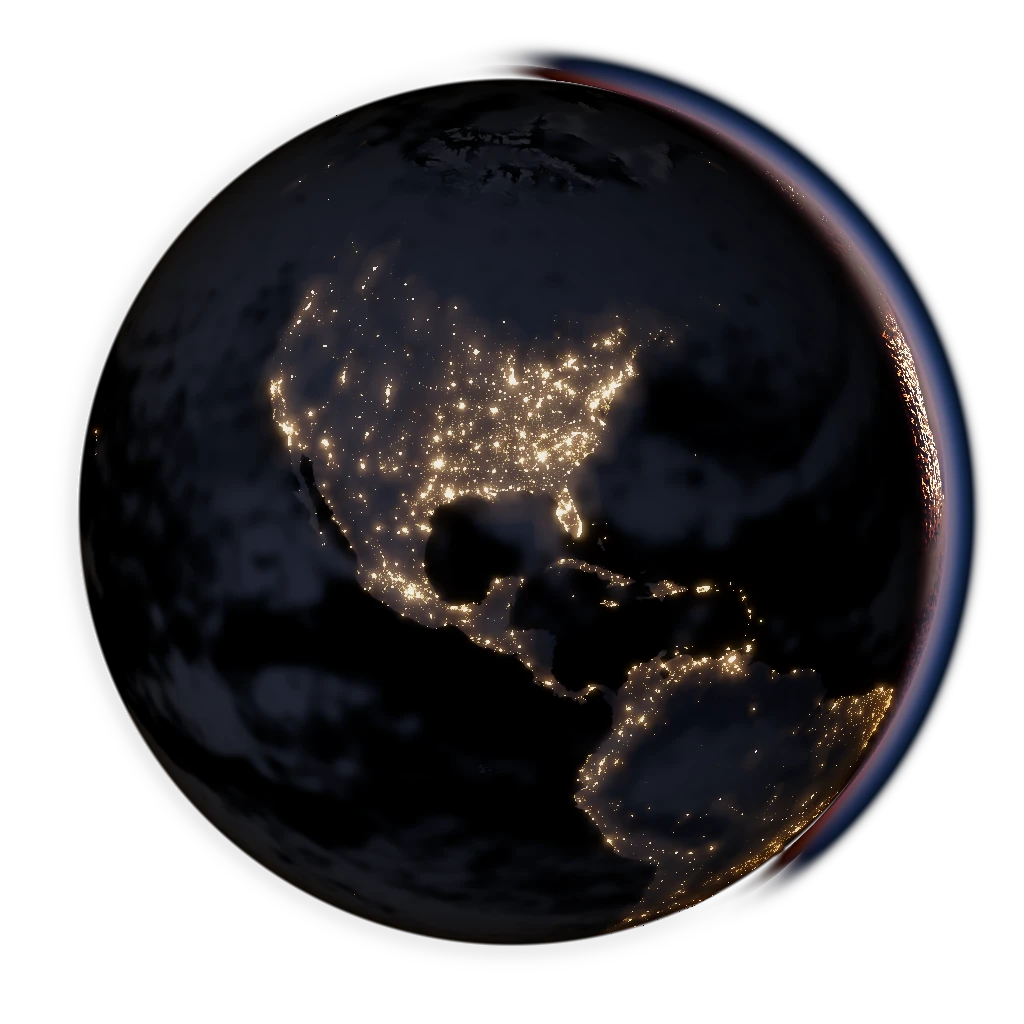
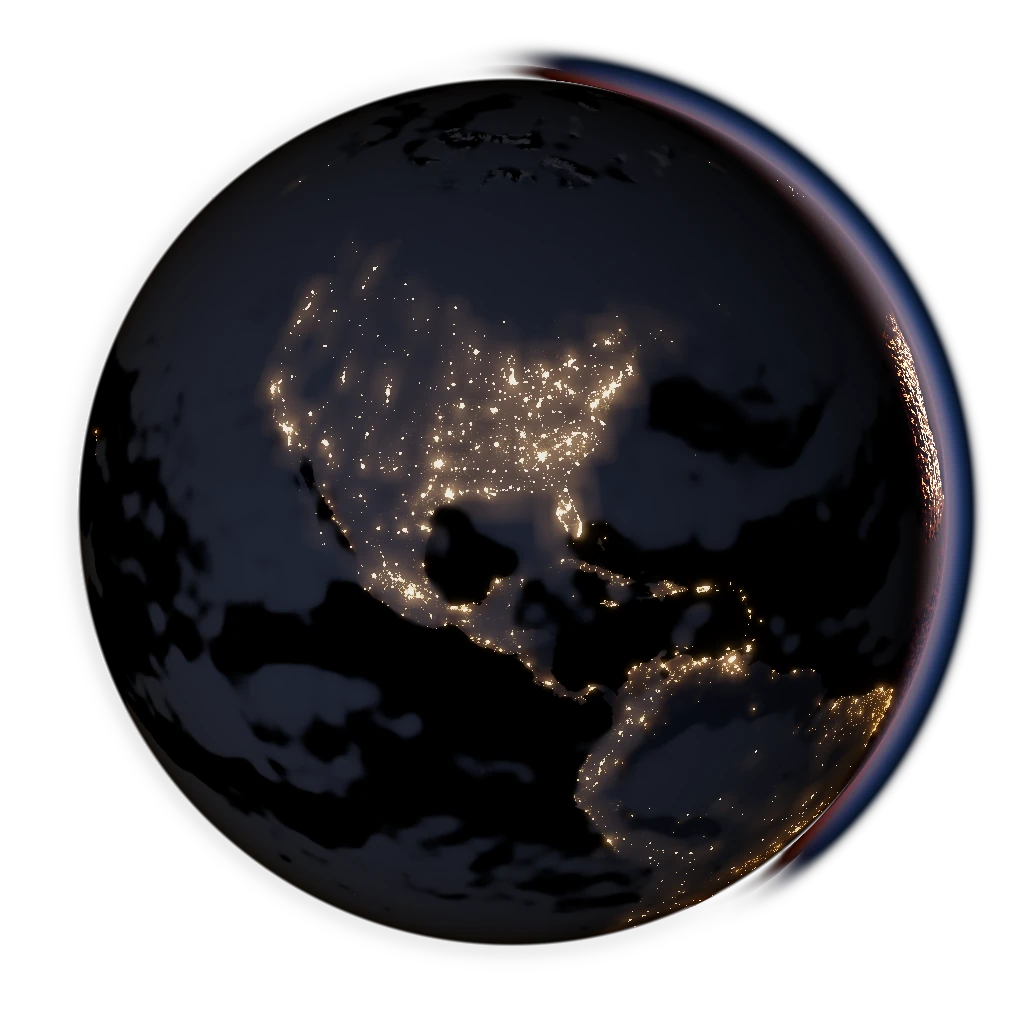
Shade cloud tops and terrain from sampled Earth heights

diff --git a/src/earth/surface.ts b/src/earth/surface.ts
@@ -1,4 +1,5 @@
 import type { EarthAtmosphere } from './atmosphere'
+import { bumpGLSL } from './bump'
 import { oceanGLSL } from './ocean'
 import { Geodetic } from '@takram/three-geospatial'
 import { nightLightingGLSL } from './night-lighting'
@@ -29,7 +30,7 @@ export function createSurface(atmosphere: EarthAtmosphere) {
     uniforms: {
       ...Object.fromEntries([...atmosphere.uniforms].filter(([key]) =>
         key === 'ATMOSPHERE' || key.endsWith('_texture') || key.endsWith('_TO_LUMINANCE'))),
-      day: { value: null }, night: { value: null }, relief: { value: null },
+      day: { value: null }, night: { value: null }, elevation: { value: null },
       dayCube: { value: null }, cubeMix: { value: 0 },
       bathymetry: { value: null }, waterNormal: { value: null }, oceanSeconds: { value: 0 },
       sunDirection: { value: new Vector3() }
@@ -41,7 +42,7 @@ export function createSurface(atmosphere: EarthAtmosphere) {
         gl_Position = projectionMatrix * modelViewMatrix * vec4(position, 1.0);
       }`,
     fragmentShader: `
-      uniform sampler2D day, night, relief;
+      uniform sampler2D day, night, elevation;
       uniform samplerCube dayCube;
       uniform float cubeMix;
       uniform vec3 sunDirection;
@@ -49,6 +50,7 @@ export function createSurface(atmosphere: EarthAtmosphere) {
       ${cityTwilightGLSL}
       ${nightLightingGLSL}
       ${oceanGLSL}
+      ${bumpGLSL}
       void main() {
         // Geodetic normal = normalized position divided by squared ellipsoid radii.
         vec3 normal = normalize(surfacePosition * vec3(1.0, 1.0, 1.0067394967));
@@ -65,16 +67,19 @@ export function createSurface(atmosphere: EarthAtmosphere) {
         vec2 uvDy = vec2(dot(dy, east), dot(dy, north)) / scales;
         vec3 color = textureGrad(day, geoUV, uvDx, uvDy).rgb;
         if (cubeMix > 0.0) color = mix(color, texture(dayCube, normal).rgb, cubeMix);
-        vec3 material = textureGrad(relief, geoUV, uvDx, uvDy).rgb;
-        vec2 slope = (2.0 * material.rg - 1.0) * (1.0 - material.b);
-        vec3 terrainNormal = normalize(east * slope.x + north * slope.y +
-          normal * sqrt(max(0.001, 1.0 - dot(slope, slope))));
+        float oceanMask = textureGrad(elevation, geoUV, uvDx, uvDy).b;
+        BumpStencil stencil = bumpStencil(normal, east, north, float(textureSize(elevation, 0).x));
+        vec3 terrainNormal = normal;
+        if (oceanMask < 1.0) {
+          vec4 heights = bumpSamples(elevation, stencil, uvDx, uvDy);
+          terrainNormal = bumpNormal(normal, east, north, stencil, heights * (1.0 - oceanMask));
+        }
         // Preserve bright sea ice in the satellite imagery. The ocean mask
         // supplies fractional coastal coverage and the DEM supplies depth.
-        float openWater = material.b * (1.0 - smoothstep(0.16, 0.48, min(color.r,min(color.g,color.b))));
+        float openWater = oceanMask * (1.0 - smoothstep(0.16, 0.48, min(color.r,min(color.g,color.b))));
         float solarElevation = dot(normal, sunDirection);
         float diffuse = max(0.0, dot(terrainNormal, sunDirection));
-        vec3 radiance = color * (0.016 + 1.5 * diffuse);
+        vec3 radiance = color * (0.016 + 1.5 * diffuse * diffuse);
 
         vec3 view = normalize(cameraPosition - surfacePosition);
         // Fixed geographic footprints across base/refined night maps. Blend the
@@ -89,7 +94,7 @@ export function createSurface(atmosphere: EarthAtmosphere) {
         float groundValue = dot(color, vec3(0.2126, 0.7152, 0.0722));
         float nightWeight = nightExposure(solarElevation);
         float landReflectance = 0.012 + 0.070 * sqrt(groundValue);
-        float moon = moonIllumination(terrainNormal) * mix(landReflectance, 0.004, material.b);
+        float moon = moonIllumination(terrainNormal) * mix(landReflectance, 0.004, oceanMask);
         float airPath = 1.0 - max(dot(normal, view), 0.0);
         vec3 air = vec3(0.0025, 0.0037, 0.0090) * (1.0 + 0.6 * airPath);
         vec3 cityAir = vec3(0.052, 0.036, 0.026) * urbanHaze(night, geoUV) * (1.0 + airPath);
@@ -97,7 +102,7 @@ export function createSurface(atmosphere: EarthAtmosphere) {
 
         float nightRelief = pow(max(dot(normal, terrainNormal), 0.0), 3.0);
         float groundGlow = spill * (0.30 + pow(groundValue, 0.67))
-          * nightRelief * (1.0 - material.b);
+          * nightRelief * (1.0 - oceanMask);
         radiance += darkness * groundGlow * vec3(1.35, 0.64, 0.22);
         if (openWater > 0.001) {
           float encoded = textureGrad(bathymetry, geoUV, uvDx, uvDy).r;

diff --git a/src/earth/clouds.ts b/src/earth/clouds.ts
@@ -1,3 +1,4 @@
+import { bumpGLSL } from './bump'
 import { createCloudFlow } from './cloud-flow'
 import { nightLightingGLSL } from './night-lighting'
 import {
@@ -11,7 +12,8 @@ export const cloudCoverageGLSL = `
     return vec2(atan(normal.y, normal.x) / 6.2831853, asin(clamp(normal.z, -1.0, 1.0)) / 3.14159265) + 0.5;
   }
   float cloudOpacity(float density, float viewCos) {
-    float verticalOpacity = 0.87 * pow(max(density - 0.025, 0.0), 2.2);
+    // Earth preset: cloud amount 0.5, threshold 0.5, transition width 0.25.
+    float verticalOpacity = clamp(density * smoothstep(0.25, 0.5, density), 0.0, 1.0);
     float pathLength = 1.0 / max(viewCos, 0.35);
     return 1.0 - pow(1.0 - verticalOpacity, pathLength);
   }
@@ -20,15 +22,15 @@ export const cloudCoverageGLSL = `
     return 1.0 - pow(1.0 - opacity, 2.15);
   }`
 
-export function createClouds(geometry: BufferGeometry, sunDirection: Vector3, nightMap: { value: Texture | null }, anisotropy: number,
-  invalidate: () => void) {
+export function createClouds(geometry: BufferGeometry, sunDirection: Vector3, nightMap: { value: Texture | null },
+  elevation: { value: Texture | null }, anisotropy: number, invalidate: () => void) {
   const clearSky = new DataTexture(new Uint8Array([0]), 1, 1, RedFormat)
   clearSky.needsUpdate = true
   const flow = createCloudFlow(anisotropy)
   const uniforms = {
     cloudMap: { value: flow.texture },
     cloudStrength: { value: 0 },
-    sunDirection: { value: sunDirection }, nightMap
+    sunDirection: { value: sunDirection }, nightMap, elevation
   }
   const material = new ShaderMaterial({
     transparent: true, depthWrite: false, depthTest: true, uniforms,
@@ -41,10 +43,11 @@ export function createClouds(geometry: BufferGeometry, sunDirection: Vector3, ni
       }`,
     fragmentShader: `
       uniform vec3 sunDirection;
-      uniform sampler2D nightMap;
+      uniform sampler2D nightMap, elevation;
       varying vec3 shellPosition;
       ${cloudCoverageGLSL}
       ${nightLightingGLSL}
+      ${bumpGLSL}
       void main() {
         vec3 n = normalize(shellPosition * vec3(1.0, 1.0, 1.0067395));
         vec3 east = vec3(-n.y, n.x, 0.0) / max(length(n.xy), 0.00001);
@@ -55,16 +58,23 @@ export function createClouds(geometry: BufferGeometry, sunDirection: Vector3, ni
         vec2 uvDx = vec2(dot(dx, east), dot(dx, north)) / scale;
         vec2 uvDy = vec2(dot(dy, east), dot(dy, north)) / scale;
         float density = textureGrad(cloudMap, uv, uvDx, uvDy).r;
+        float width = float(min(textureSize(cloudMap, 0).x, textureSize(elevation, 0).x));
+        BumpStencil stencil = bumpStencil(n, east, north, width);
+        if (density <= 0.25) discard;
+        vec4 land = bumpSamples(elevation, stencil, uvDx, uvDy);
+        vec4 clouds = smoothstep(vec4(-0.5), vec4(2.0), bumpSamples(cloudMap, stencil, uvDx, uvDy));
+        vec3 top = bumpNormal(n, east, north, stencil, mix(land, max(land, clouds), 0.5));
+        float sunlight = max(dot(top, sunDirection), 0.0);
         float sun = dot(n, sunDirection);
         float daylight = smoothstep(-0.06, 0.16, sun);
         vec3 tint = mix(vec3(1.0, 0.60, 0.35), vec3(1.0, 0.98, 0.95), daylight);
         vec3 color = vec3(0.0016, 0.0022, 0.0035) + tint *
-          (0.055 * smoothstep(-0.09, 0.12, sun) + 0.90 * max(sun, 0.0));
+          (0.055 * smoothstep(-0.09, 0.12, sun) + 1.35 * sunlight * sunlight);
         // Cloud coverage modulates both moonlit tops and the light returned
         // by low clouds over a city. Clear ocean receives no city contribution.
         float darkness = nightExposure(sun);
         float coverage = cloudOpacity(density, dot(n, normalize(cameraPosition - shellPosition)));
-        color += darkness * (vec3(0.032, 0.041, 0.073) * moonIllumination(n)
+        color += darkness * (vec3(0.032, 0.041, 0.073) * moonIllumination(top)
           + vec3(0.16, 0.10, 0.060) * urbanHaze(nightMap, cloudUV(n)));
         if (darkness * coverage > 0.0) {
           // Sample a wider geographic footprint for thicker clouds. The same

diff --git a/src/earth/index.ts b/src/earth/index.ts
@@ -61,7 +61,7 @@ export async function createEarth(canvas: HTMLCanvasElement, options: EarthOptio
   const textures = new Set<Texture>()
   const textureLoader = new TextureLoader()
   const anisotropy = Math.min(16, renderer.capabilities.getMaxAnisotropy())
-  const clouds = createClouds(globe.geometry, surface.uniforms.sunDirection.value, surface.uniforms.night, anisotropy, invalidate)
+  const clouds = createClouds(globe.geometry, surface.uniforms.sunDirection.value, surface.uniforms.night, surface.uniforms.elevation, anisotropy, invalidate)
   scene.add(clouds.mesh)
   const reducedMotion = matchMedia('(prefers-reduced-motion: reduce)')
   const east = new Vector3()
@@ -256,7 +256,7 @@ export async function createEarth(canvas: HTMLCanvasElement, options: EarthOptio
     }
     if (diameter >= 690 && !highMapsRequested && renderer.capabilities.maxTextureSize >= 4096) {
       highMapsRequested = true
-      for (const name of ['night', 'relief']) {
+      for (const name of ['night', 'elevation']) {
         loadMap(name + '-detail').then(texture => {
           if (!disposed) replaceTexture(name, texture)
         }).catch(() => { /* Keep the base map if this optional refinement fails. */ })
@@ -287,16 +287,16 @@ export async function createEarth(canvas: HTMLCanvasElement, options: EarthOptio
     Object.assign(atmosphere, tables)
   })
   Promise.all([
-    loadMap('day', true), loadMap('night'), loadMap('relief'), loadMap('bathymetry'),
+    loadMap('day', true), loadMap('night'), loadMap('elevation'), loadMap('bathymetry'),
     loadMap('water-normal'), loadMap('wind'), atmosphereTextures, clouds.loadSnapshot(), cityPoints
-  ]).then(([day, night, relief, bathymetry, waterNormal, windField]) => {
+  ]).then(([day, night, elevation, bathymetry, waterNormal, windField]) => {
     if (disposed) return
     waterNormal.wrapT = RepeatWrapping
     surface.uniforms.waterNormal.value = waterNormal
     surface.uniforms.bathymetry.value = bathymetry
     wind = windField
     surface.uniforms.day.value = day
-    surface.uniforms.relief.value = relief
+    surface.uniforms.elevation.value = elevation
     surface.uniforms.night.value = night
     if (points && atmosphere.transmittanceTexture) {
       composer.addPass(new CityBloomPass(camera, points, atmosphere.transmittanceTexture, clouds.uniforms), 2)

diff --git a/src/earth/bump.ts b/src/earth/bump.ts
@@ -1,0 +1,31 @@
+// Julien Sulpis's textured Earth uses finite differences of a terrain/cloud
+// height field. Sample along the WGS84 tangent plane in the mesh renderer.
+export const bumpGLSL = `
+  vec2 bumpUV(vec3 n) {
+    return vec2(atan(n.y, n.x) / 6.2831853, asin(clamp(n.z, -1.0, 1.0)) / 3.14159265) + 0.5;
+  }
+
+  struct BumpStencil {
+    vec2 west, east, south, north;
+    float diameter;
+  };
+
+  BumpStencil bumpStencil(vec3 n, vec3 east, vec3 north, float mapWidth) {
+    // Keep the finite difference at least one source texel across and widen
+    // it where the visible footprint grows on smaller screens or at the limb.
+    float pixel = max(length(dFdx(n)), length(dFdy(n)));
+    float stepAngle = max(6.2831853 / mapWidth, clamp(pixel, 0.0015, 0.015));
+    return BumpStencil(bumpUV(normalize(n - stepAngle * east)), bumpUV(normalize(n + stepAngle * east)),
+      bumpUV(normalize(n - stepAngle * north)), bumpUV(normalize(n + stepAngle * north)), 2.0 * stepAngle);
+  }
+
+  vec4 bumpSamples(sampler2D field, BumpStencil s, vec2 dx, vec2 dy) {
+    return vec4(textureGrad(field, s.west, dx, dy).r, textureGrad(field, s.east, dx, dy).r,
+      textureGrad(field, s.south, dx, dy).r, textureGrad(field, s.north, dx, dy).r);
+  }
+
+  vec3 bumpNormal(vec3 n, vec3 east, vec3 north, BumpStencil s, vec4 heights) {
+    // Reference bump amplitude is 0.01 on a sphere of radius 2.
+    return normalize(n - (0.005 / s.diameter) *
+      (east * (heights.y - heights.x) + north * (heights.w - heights.z)));
+  }`

diff --git a/scripts/bake-earth.py b/scripts/bake-earth.py
@@ -70,29 +70,15 @@ def bake_bathymetry(dem):
 
 def relief_map(dem, geometries, bounds, size):
     width, height = size
-    west, south, east, north = bounds
     elevation = dem.read(
         1,
         window=pixel_window(*bounds, transform=dem.transform),
         out_shape=(height, width),
         resampling=Resampling.average,
     )
-    # Take derivatives in metres on the tangent plane, with east and north
-    # independent of the Three.js camera or world convention.
-    longitude_step = (east - west) / width
-    latitude_step = (north - south) / height
-    latitudes = north - (np.arange(height) + 0.5) * latitude_step
-    metres_per_degree = 6371008.8 * np.pi / 180
-    dx = metres_per_degree * longitude_step * np.cos(np.deg2rad(latitudes))[:, None]
-    dy = metres_per_degree * latitude_step
-    elevation = np.maximum(elevation, 0)
-    if bounds == GLOBAL:
-        east_gradient = (np.roll(elevation, -1, axis=1) - np.roll(elevation, 1, axis=1)) / 2
-    else:
-        east_gradient = np.gradient(elevation, axis=1)
-    normal_east = -east_gradient / dx * 6
-    normal_north = np.gradient(elevation, axis=0) / dy * 6
-    length = np.sqrt(1 + normal_east**2 + normal_north**2)
+    # Store a scalar height for runtime finite-difference lighting. Linear
+    # encoding keeps interpolated heights and mip averages in elevation space.
+    height_channel = np.clip(elevation.astype("float32") / 8849.0, 0, 1) * 255
 
     # Rasterize at 2x resolution for antialiased coastlines in the blue channel.
     high_size = (width * 2, height * 2)
@@ -105,7 +91,7 @@ def relief_map(dem, geometries, bounds, size):
         dtype="uint8",
     )
     coverage = np.asarray(Image.fromarray(ocean).resize(size, Image.Resampling.BOX))
-    channels = (127.5 + 127.5 * normal_east / length, 127.5 + 127.5 * normal_north / length, coverage)
+    channels = (height_channel, height_channel, coverage)
     return Image.fromarray(np.rint(np.stack(channels, axis=-1)).astype("uint8"))
 
 
@@ -166,7 +152,7 @@ def bake_detail(cache, dem, ocean):
     with Image.open(cache / "night-3km.jpg") as night:
         color_crop(night, GLOBAL, (4096, 2048)).save(OUTPUT / "night-detail.webp", lossless=True, method=6)
     relief = relief_map(dem, ocean, GLOBAL, (4096, 2048))
-    relief.save(OUTPUT / "relief-detail.webp", lossless=True, method=6)
+    relief.save(OUTPUT / "elevation-detail.webp", lossless=True, method=6)
 
 
 def bake(cache):
@@ -177,7 +163,7 @@ def bake(cache):
         bake_bathymetry(dem)
         base_size = (1024, 512)
         color_crop(day, GLOBAL, base_size).save(OUTPUT / "day.webp", quality=85, method=6)
-        relief_map(dem, ocean, GLOBAL, base_size).save(OUTPUT / "relief.webp", lossless=True, method=6)
+        relief_map(dem, ocean, GLOBAL, base_size).save(OUTPUT / "elevation.webp", lossless=True, method=6)
         bake_detail(cache, dem, ocean)
     with Image.open(cache / "night.jpg") as night:
         color_crop(night.convert("L"), GLOBAL, (2048, 1024)).save(OUTPUT / "night.webp", lossless=True, method=6)

diff --git a/README.md b/README.md
@@ -16,7 +16,7 @@ Use Node.js 22 or newer. Run `npm ci` and `npm run dev`. Run `npm run typecheck`
 
 ## Imagery
 
-The browser requests a small global day map, city lights, packed relief and ocean coverage, and locally hosted atmospheric scattering tables. After the first frame, day imagery refines to a six-face cube projected from a 21,600 × 10,800 source. The drawn globe size selects 1024- or 2048-pixel faces, with sharper night and relief maps for larger globes. Clouds use a separate 8.5 km shell lit by the shared sun. The first live frame uses the bundled cloud snapshot when available, then blends in Matt Eason’s 2048-pixel map as it arrives. The cloud source mirrors its caps past 67.5° north and south. The density texture blends to stylized spherical noise near the data boundary. Cloud opacity accounts for the longer viewing path near the horizon. A visible tab checks again after three hours. Contains modified EUMETSAT data. [Live Cloud Maps](https://github.com/matteason/live-cloud-maps)
+The browser requests a small global day map, city lights, packed relief and ocean coverage, and locally hosted atmospheric scattering tables. After the first frame, day imagery refines to a six-face cube projected from a 21,600 × 10,800 source. The drawn globe size selects 1024- or 2048-pixel faces, with sharper night and relief maps for larger globes. Clouds use a separate 8.5 km shell lit by the shared sun. The first live frame uses the bundled cloud snapshot when available, then blends in Matt Eason’s 2048-pixel map as it arrives. The cloud source mirrors its caps past 67.5° north and south. The density texture blends to stylized spherical noise near the data boundary. Cloud opacity follows the textured Earth preset’s density threshold and accounts for the longer viewing path near the horizon. Land relief uses runtime finite differences of ETOPO height. The cloud shell combines terrain and cloud heights for its lighting normal. Both use squared diffuse sunlight from [Julien Sulpis’s Earth shader](https://github.com/jsulpis/realtime-planet-shader/blob/main/src/webgl/shaders/earth.fragment.glsl). A visible tab checks again after three hours. Contains modified EUMETSAT data. [Live Cloud Maps](https://github.com/matteason/live-cloud-maps)
 
 Wide atmosphere exaggerates the apparent altitude above the horizon tenfold using Takram’s scattering tables. An artistic moon stays fixed over the North Pacific. Its light reveals terrain and cloud tops and scatters along the night horizon. A coarse mip of the night map supplies localized city skyglow in the air and clouds. A hue adjustment on scattered light reduces violet at the daylight horizon.
 
